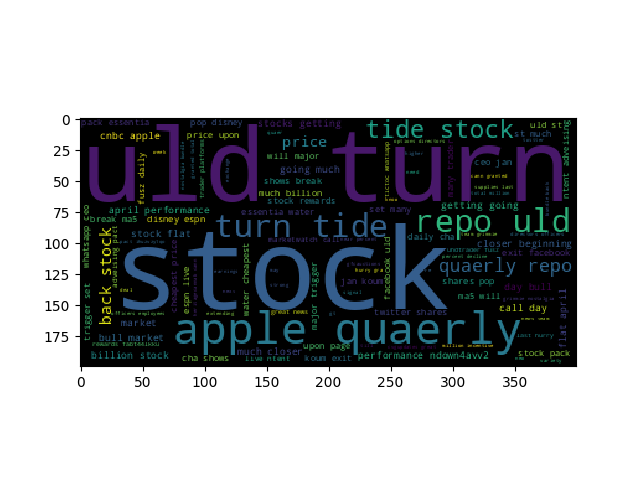
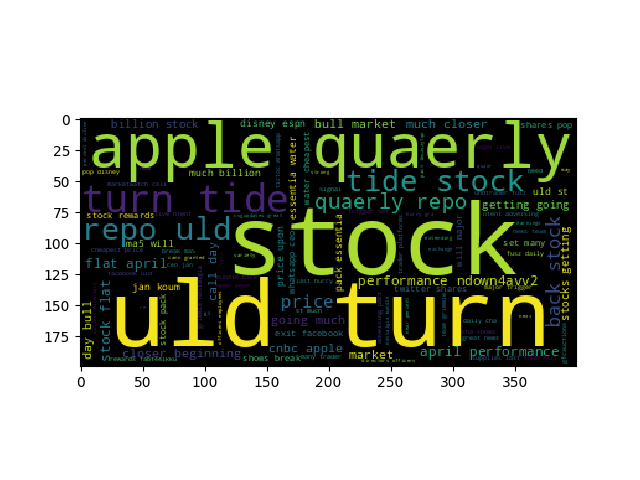
final edit

Changed region(s): [[0.125, 0.25, 0.9062, 0.7812]]

diff --git a/scripts/wcgen.py b/scripts/wcgen.py
@@ -13,7 +13,7 @@ save_dir = script_dir.replace('scripts/wcgen.py', 'data/wcimgs/') # dataset fold
 
 #add filter list
 dates = ["April27", "April28", "April29", "April30", "May1", "May2", "May3", "May4", "May5", "May6"]
-filters = ["httpsco", "https", "rt", "co"];
+filters = ["httpsco", "https", "rt"];
 
 def  stats(stock):
 	count = 0
